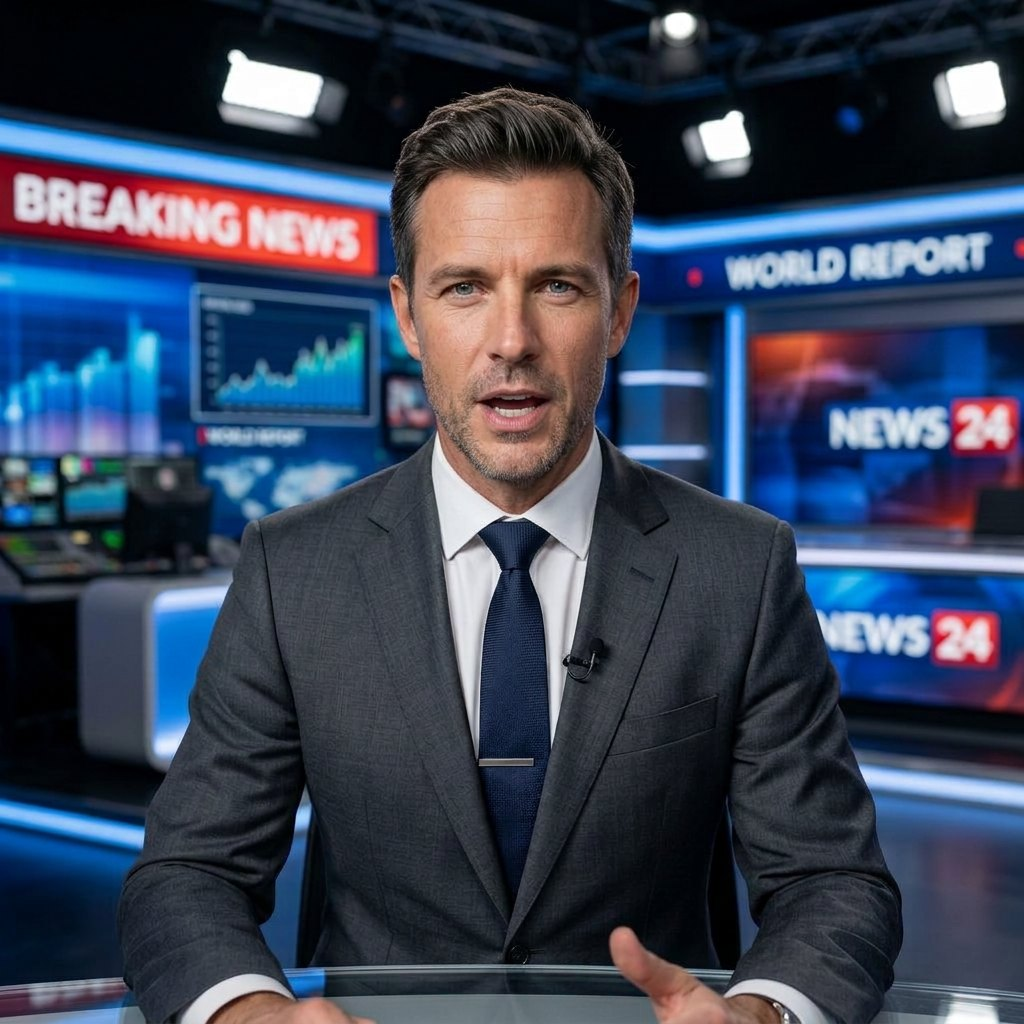
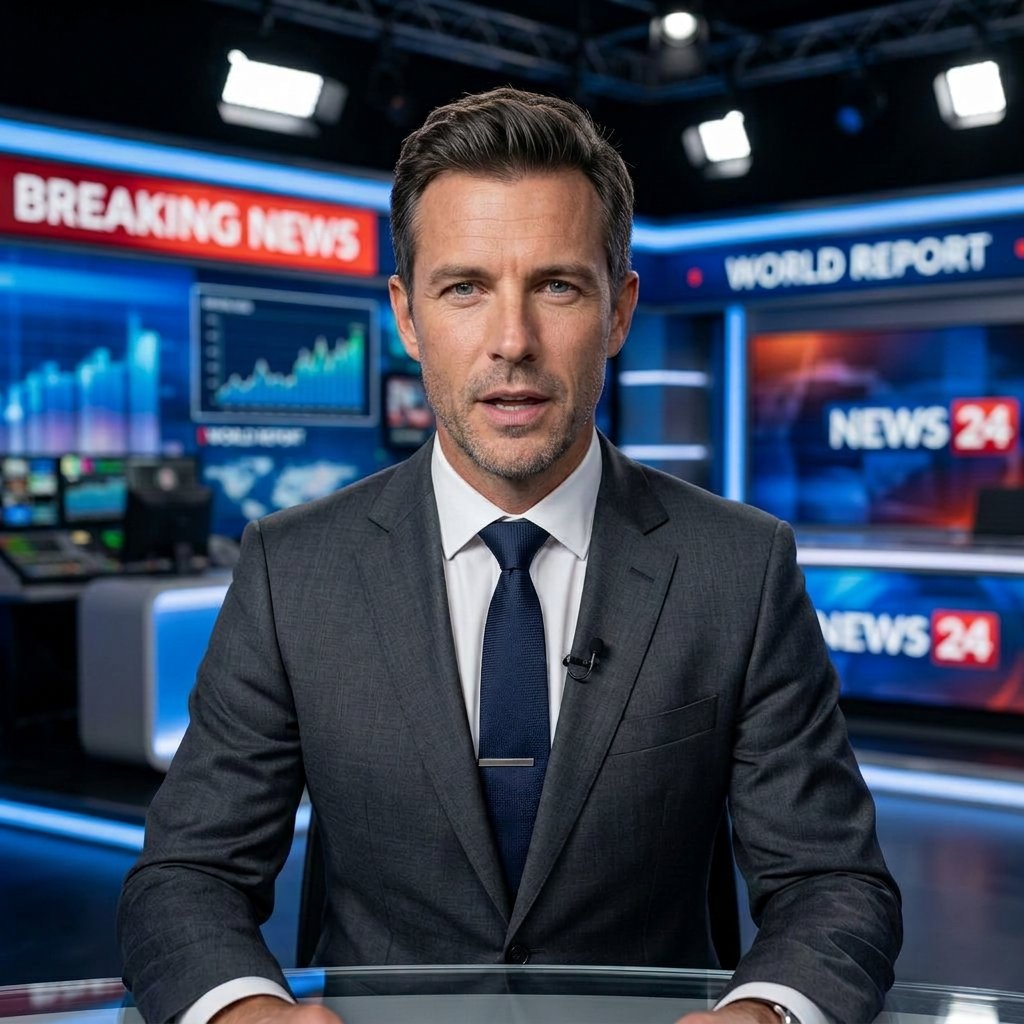
Make every presenter mouth and face move while speaking
Default Kade now has matching talk frames. The renderer always
drives visemes on Start, not a still photo. Jaw/cheeks follow words.

diff --git a/talking-avatar.js b/talking-avatar.js
@@ -1,22 +1,27 @@
-/* Head locked. Same-pose viseme photos ease in slowly. Face actions follow the voice. */
+/* Head locked. Same-pose viseme photos. Face/mouth follow the voice. */
 (function () {
   const LANDMARKS = {
-    nova_kade:       { cx: 0.50, eyeY: 0.250, mouthY: 0.329, chinY: 0.385, faceW: 0.14 },
-    lyra_nova:       { cx: 0.50, eyeY: 0.285, mouthY: 0.298, chinY: 0.390, faceW: 0.11 },
-    arjun_mehra:     { cx: 0.50, eyeY: 0.255, mouthY: 0.339, chinY: 0.385, faceW: 0.15 },
-    priya_nair:      { cx: 0.50, eyeY: 0.275, mouthY: 0.318, chinY: 0.395, faceW: 0.16 },
-    rajesh_sharma:   { cx: 0.50, eyeY: 0.282, mouthY: 0.381, chinY: 0.385, faceW: 0.12 },
-    meera_kapoor:    { cx: 0.50, eyeY: 0.280, mouthY: 0.324, chinY: 0.410, faceW: 0.12 },
-    alexander_hayes: { cx: 0.50, eyeY: 0.265, mouthY: 0.345, chinY: 0.395, faceW: 0.15 },
-    sofia_reyes:     { cx: 0.50, eyeY: 0.310, mouthY: 0.346, chinY: 0.420, faceW: 0.11 },
-    marcus_cole:     { cx: 0.50, eyeY: 0.265, mouthY: 0.375, chinY: 0.400, faceW: 0.14 }
+    nova_kade:       { cx: 0.50, eyeY: 0.220, mouthY: 0.292, chinY: 0.355, faceW: 0.16 },
+    lyra_nova:       { cx: 0.50, eyeY: 0.260, mouthY: 0.322, chinY: 0.378, faceW: 0.10 },
+    arjun_mehra:     { cx: 0.50, eyeY: 0.240, mouthY: 0.322, chinY: 0.378, faceW: 0.15 },
+    priya_nair:      { cx: 0.50, eyeY: 0.265, mouthY: 0.338, chinY: 0.395, faceW: 0.15 },
+    rajesh_sharma:   { cx: 0.50, eyeY: 0.255, mouthY: 0.325, chinY: 0.378, faceW: 0.13 },
+    meera_kapoor:    { cx: 0.50, eyeY: 0.225, mouthY: 0.292, chinY: 0.345, faceW: 0.12 },
+    alexander_hayes: { cx: 0.50, eyeY: 0.240, mouthY: 0.320, chinY: 0.378, faceW: 0.14 },
+    sofia_reyes:     { cx: 0.50, eyeY: 0.280, mouthY: 0.338, chinY: 0.395, faceW: 0.11 },
+    marcus_cole:     { cx: 0.50, eyeY: 0.235, mouthY: 0.328, chinY: 0.385, faceW: 0.14 }
   };
 
-  // Only blend viseme photos that match the base portrait pose/framing.
   const MATCHED = {
-    meera_kapoor: { A: 1, E: 1, O: 1, F: 1 },
-    priya_nair:   { A: 1, E: 1, O: 1, F: 1 },
-    arjun_mehra:  { A: 1, O: 1 }
+    nova_kade:       { A: 1, E: 1, O: 1 },
+    lyra_nova:       { A: 1, O: 1 },
+    arjun_mehra:     { A: 1, O: 1 },
+    priya_nair:      { A: 1, E: 1, O: 1, F: 1 },
+    rajesh_sharma:   { A: 1 },
+    meera_kapoor:    { A: 1, E: 1, O: 1, F: 1 },
+    alexander_hayes: { A: 1 },
+    sofia_reyes:     { A: 1, E: 1 },
+    marcus_cole:     { A: 1 }
   };
 
   const VISEME_ID = { closed: 0, rest: 1, wide: 2, open: 3, round: 4, teeth: 5 };
@@ -60,7 +65,7 @@
       return { open: 0.65, width: 0.7, shape: "round" };
     if (["a", "ay", "ai", "ah"].indexOf(t) >= 0 || /[अआा]/.test(raw) || /[ಅಆಾ]/.test(raw) || /[அஆா]/.test(raw) || /[అఆా]/.test(raw))
       return { open: 0.85, width: 1.08, shape: "open" };
-    return { open: 0.22, width: 1, shape: "rest" };
+    return { open: 0.35, width: 1, shape: "open" };
   };
 
   function lettersOf(word) {
@@ -114,22 +119,25 @@
   function targetWeights(id, shape, open) {
     const z = { A: 0, E: 0, O: 0, F: 0 };
     const allow = MATCHED[id] || {};
-    if (!(open > 0.06)) return z;
     const s = Math.min(1, Math.max(0, open));
     function put(key, amt) {
+      if (amt <= 0) return;
       if (allow[key]) z[key] += amt;
-      else if (allow.A) z.A += amt * 0.55;
+      else if (allow.A) z.A += amt * 0.85;
+      else if (allow.O) z.O += amt * 0.7;
+      else if (allow.E) z.E += amt * 0.7;
     }
-    if (shape === "wide") put("E", s);
-    else if (shape === "round") put("O", s);
-    else if (shape === "teeth") put("F", s);
-    else if (shape === "open") put("A", s);
-    else if (shape === "rest") { put("A", s * 0.28); put("E", s * 0.12); }
-    else if (shape !== "closed") put("A", s * 0.45);
+    if (shape === "closed" || s < 0.04) return z;
+    if (shape === "wide") put("E", Math.max(0.55, s));
+    else if (shape === "round") put("O", Math.max(0.6, s));
+    else if (shape === "teeth") put("F", Math.max(0.5, s));
+    else if (shape === "open") put("A", Math.max(0.7, s));
+    else put("A", Math.max(0.45, s));
     const sum = z.A + z.E + z.O + z.F;
-    if (sum > 1.05) {
+    if (sum > 1) {
       z.A /= sum; z.E /= sum; z.O /= sum; z.F /= sum;
     }
+    if (sum < 0.45 && shape !== "closed") put("A", 0.7);
     return z;
   }
 
@@ -137,10 +145,18 @@
     return cur + (goal - cur) * k;
   }
 
+  const IDLE_CYCLE = [
+    { char: "a", viseme: "open", open: 0.82 },
+    { char: "e", viseme: "wide", open: 0.42 },
+    { char: "o", viseme: "round", open: 0.68 },
+    { char: "a", viseme: "open", open: 0.75 },
+    { char: "m", viseme: "closed", open: 0.04 }
+  ];
+
   function driveLetterVisemes(delta) {
-    const speaking = !!(state.isSpeaking && !state.isPaused && state.userHasStarted);
-    const k = 1 - Math.exp(-3.1 * Math.max(0.001, delta));
-    if (!state.faceW) state.faceW = { A: 0, E: 0, O: 0, F: 0 };
+    const speaking = !!(state.isSpeaking && !state.isPaused);
+    const k = 1 - Math.exp(-5.8 * Math.max(0.001, delta));
+    if (!state.faceW || typeof state.faceW.A !== "number") state.faceW = { A: 0, E: 0, O: 0, F: 0 };
     const id = state.anchorModel || "";
     const w = state.faceW;
 
@@ -167,19 +183,23 @@
       state.currentWordVec = window.wordToVec(words[idx] || "");
     }
     const seq = window.wordToVisemes(words[idx] || "");
-    const rate = 2.05 * (state.speechRate || 1);
+    const rate = 2.7 * (state.speechRate || 1);
     state.letterPhase = (state.letterPhase || 0) + delta * rate;
-    let i = 0;
-    if (seq.length) i = Math.min(seq.length - 1, Math.floor(state.letterPhase));
-    const item = seq[i] || { char: "", viseme: "rest", open: 0.18 };
-    const v = window.visemeForChar(item.char || "e");
+    let item;
+    if (seq.length) {
+      const i = Math.min(seq.length - 1, Math.floor(state.letterPhase));
+      item = seq[i];
+    } else {
+      item = IDLE_CYCLE[Math.floor(state.letterPhase) % IDLE_CYCLE.length];
+    }
+    const v = window.visemeForChar(item.char || "a");
     state.currentLetter = item.char;
     state.visemeMouthOpen = easeToward(state.visemeMouthOpen || 0, item.open, k);
     state.visemeMouthWidth = easeToward(state.visemeMouthWidth || 1, v.width, k);
     state.visemeShape = item.viseme;
 
-    const tBrow = (item.viseme === "open" || item.viseme === "wide") ? 0.32 : (item.viseme === "round" ? 0.18 : 0.06);
-    const tCheek = item.viseme === "wide" ? 0.42 : (item.viseme === "open" ? 0.14 : 0);
+    const tBrow = (item.viseme === "open" || item.viseme === "wide") ? 0.34 : (item.viseme === "round" ? 0.2 : 0.05);
+    const tCheek = item.viseme === "wide" ? 0.45 : (item.viseme === "open" ? 0.16 : 0);
     state.browLift = easeToward(state.browLift || 0, tBrow, k);
     state.cheekRaise = easeToward(state.cheekRaise || 0, tCheek, k);
     state.jawOpen = easeToward(state.jawOpen || 0, item.open, k);
@@ -191,21 +211,25 @@
     w.F = easeToward(w.F, tw.F, k);
   }
 
-  window.updateFacialAnimations = function (delta) {
-    state.breathPhase += delta * 0.55;
-    if (Math.random() < 0.0032 && state.eyeBlink === 0) state.eyeBlink = 1;
+  function talkingAvatarTick(delta) {
+    if (typeof delta !== "number" || !isFinite(delta) || delta < 0) delta = 0.016;
+    if (delta > 0.08) delta = 0.08;
+    state.breathPhase = (state.breathPhase || 0) + delta * 0.55;
+    if (Math.random() < 0.0032 && (state.eyeBlink || 0) === 0) state.eyeBlink = 1;
     if (state.eyeBlink > 0) {
       state.eyeBlink -= delta * 6.5;
       if (state.eyeBlink < 0) state.eyeBlink = 0;
     }
     driveLetterVisemes(delta);
-  };
+  }
+  window.talkingAvatarTick = talkingAvatarTick;
+  window.updateFacialAnimations = talkingAvatarTick;
 
   function cropRect(img, f, w, h) {
     const nw = img.naturalWidth;
     const nh = img.naturalHeight;
-    const headTop = Math.max(0, (f.eyeY || 0.26) - 0.18);
-    const chest = Math.min(1, (f.chinY || 0.4) + 0.20);
+    const headTop = Math.max(0, (f.eyeY || 0.26) - 0.20);
+    const chest = Math.min(1, (f.chinY || 0.4) + 0.16);
     let srcH = (chest - headTop) * nh;
     let srcW = srcH * (w / Math.max(1, h));
     if (srcW > nw) {
@@ -236,7 +260,7 @@
   }
 
   function blendVisemeLayer(srcImg, f, w, h, alpha) {
-    if (!ready(srcImg) || alpha < 0.03) return;
+    if (!ready(srcImg) || alpha < 0.02) return;
     const crop = cropRect(srcImg, f, w, h);
     const b = ensureBuf(w, h);
     b.clearRect(0, 0, w, h);
@@ -249,22 +273,22 @@
     const eyeY = ((f.eyeY * crop.nh - crop.sy) / crop.srcH) * h;
     const jawY = ((f.chinY * crop.nh - crop.sy) / crop.srcH) * h;
     const faceW = (f.faceW * crop.nw / crop.srcW) * w;
-    const rx = faceW * 0.95;
-    const ry = Math.max(faceW * 0.42, (jawY - eyeY) * 0.62);
-    const cy = my + (jawY - my) * 0.08;
+    const rx = Math.max(faceW * 1.15, w * 0.16);
+    const ry = Math.max((jawY - eyeY) * 0.85, faceW * 0.7, h * 0.16);
+    const cy = (eyeY + jawY) * 0.52;
 
     b.globalCompositeOperation = "destination-in";
-    const g = b.createRadialGradient(mx, cy, Math.min(rx, ry) * 0.16, mx, cy, Math.max(rx, ry) * 0.98);
+    const g = b.createRadialGradient(mx, cy, Math.min(rx, ry) * 0.22, mx, cy, Math.max(rx, ry));
     g.addColorStop(0, "rgba(0,0,0,1)");
-    g.addColorStop(0.48, "rgba(0,0,0,0.94)");
-    g.addColorStop(0.78, "rgba(0,0,0,0.45)");
+    g.addColorStop(0.62, "rgba(0,0,0,0.96)");
+    g.addColorStop(0.86, "rgba(0,0,0,0.4)");
     g.addColorStop(1, "rgba(0,0,0,0)");
     b.fillStyle = g;
     b.fillRect(0, 0, w, h);
     b.globalCompositeOperation = "source-over";
 
     ctx.save();
-    ctx.globalAlpha = Math.min(0.9, alpha);
+    ctx.globalAlpha = Math.min(1, alpha);
     ctx.drawImage(faceBuf, 0, 0);
     ctx.restore();
   }
@@ -282,12 +306,12 @@
 
     const allow = MATCHED[profile.id] || {};
     const bank = visemeBank[profile.id] || {};
-    const fw = state.faceW || { A: 0, E: 0, O: 0, F: 0 };
+    const fw = (state.faceW && typeof state.faceW.A === "number") ? state.faceW : { A: 0, E: 0, O: 0, F: 0 };
     const layers = [];
-    if (allow.A && fw.A > 0.04) layers.push([fw.A, bank.A]);
-    if (allow.E && fw.E > 0.04) layers.push([fw.E, bank.E]);
-    if (allow.O && fw.O > 0.04) layers.push([fw.O, bank.O]);
-    if (allow.F && fw.F > 0.04) layers.push([fw.F, bank.F]);
+    if (allow.A && fw.A > 0.03) layers.push([fw.A, bank.A]);
+    if (allow.E && fw.E > 0.03) layers.push([fw.E, bank.E]);
+    if (allow.O && fw.O > 0.03) layers.push([fw.O, bank.O]);
+    if (allow.F && fw.F > 0.03) layers.push([fw.F, bank.F]);
     layers.sort(function (a, b) { return b[0] - a[0]; });
     const n = Math.min(2, layers.length);
     for (let i = 0; i < n; i++) blendVisemeLayer(layers[i][1], f, w, h, layers[i][0]);

diff --git a/app.js b/app.js
@@ -1485,7 +1485,8 @@ function startAnimationLoop() {
             }
 
             // Update Animation States
-            updateFacialAnimations(delta);
+            if (typeof window.talkingAvatarTick === "function") window.talkingAvatarTick(delta);
+            else updateFacialAnimations(delta);
 
             // Draw Canvas Layers
             if (!canvas || !ctx) {
@@ -1495,7 +1496,13 @@ function startAnimationLoop() {
             }
             drawStudioBackground();
             drawMediaPIP();
-            drawMaleAnchorModel();
+            if (typeof window.drawTalkingNewsReader === "function") {
+                const profile = getAnchorProfile(state.anchorModel);
+                window.drawTalkingNewsReader(profile, canvas.width, canvas.height);
+                drawPresenterLowerThird(profile, canvas.width, canvas.height);
+            } else {
+                drawMaleAnchorModel();
+            }
             drawLowerThirdsAndTicker();
         } catch (err) {
             console.error("Error in animation render loop:", err);
@@ -1520,6 +1527,10 @@ function startAnimationLoop() {
 
 // Procedural Blink & Micro Motions
 function updateFacialAnimations(delta) {
+    if (typeof window.talkingAvatarTick === "function") {
+        window.talkingAvatarTick(delta);
+        return;
+    }
     state.breathPhase += delta * 1.6;
     state.gesturePhase = (state.gesturePhase || 0) + delta * (state.isSpeaking ? 3.2 : 1.1);
 
@@ -1663,6 +1674,11 @@ function drawMaleAnchorModel() {
     const w = canvas.width;
     const h = canvas.height;
     const profile = getAnchorProfile(state.anchorModel);
+    if (typeof window.drawTalkingNewsReader === "function" && profile.kind !== "robot") {
+        window.drawTalkingNewsReader(profile, w, h);
+        drawPresenterLowerThird(profile, w, h);
+        return;
+    }
     if (profile.kind === "robot") {
         ctx.save();
         const breathY = Math.sin(state.breathPhase) * 2;

diff --git a/index.html b/index.html
@@ -572,11 +572,11 @@
     </div>
 
     <div id="studioToast" class="studio-toast hidden"></div>
-    <script src="app.js?v=face1"></script>
-    <script src="talking-avatar.js?v=face1"></script>
-    <script src="news-desk.js?v=face1"></script>
-    <script src="boot-controls.js?v=face1"></script>
-    <script src="fix-news-ui.js?v=face1"></script>
+    <script src="app.js?v=face2"></script>
+    <script src="talking-avatar.js?v=face2"></script>
+    <script src="news-desk.js?v=face2"></script>
+    <script src="boot-controls.js?v=face2"></script>
+    <script src="fix-news-ui.js?v=face2"></script>
     <script>
         (function () {
             function dismissLoader() {
